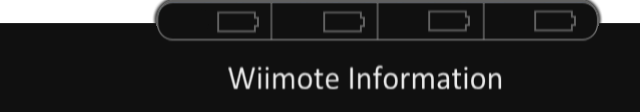
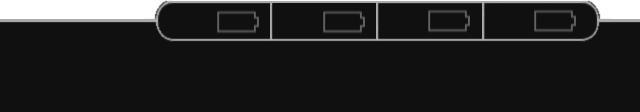
Localization: - Home Menu translated - new PNGs for Home Menu   ( dol is a bit smaller now )  ;) - Update turkish.lang by aHMET - Update german.lang

diff --git a/CoverFlow/source/homemenu.c b/CoverFlow/source/homemenu.c
@@ -86,7 +86,8 @@ void HomeMenu_Show()
 		moving_y = change_scale(i, 0, 26, 108, 0);
 		Do_Batteries(moving_y);
 		moving_y = change_scale(i, 0, 26, -38, 70);
-		CFreeTypeGX_DrawText(ttf24pt, 490, moving_y, TX.homeMenuTopB, (GXColor){0x00, 0x00, 0x00, 0xff}, FTGX_JUSTIFY_LEFT | FTGX_ALIGN_MIDDLE);
+		CFreeTypeGX_DrawText(ttf24pt, 470, moving_y, TX.homeMenuTopB, (GXColor){0x00, 0x00, 0x00, 0xff}, FTGX_JUSTIFY_LEFT | FTGX_ALIGN_MIDDLE);
+		CFreeTypeGX_DrawText(ttf24pt, 30, moving_y, TX.homeMenu, (GXColor){0xff, 0xff, 0xff, 0xff}, FTGX_JUSTIFY_LEFT | FTGX_ALIGN_MIDDLE);
 
 		WPAD_ScanPads();
 		PAD_ScanPads();
@@ -116,7 +117,8 @@ void HomeMenu_Show()
 		Button_Paint(&homeMenuTopButton);
 		Button_Paint(&homeMenuBottomButton);
 		// Draw the 'Cancel' text
-		CFreeTypeGX_DrawText(ttf24pt, 490, moving_y, TX.homeMenuTopB, (GXColor){0x00, 0x00, 0x00, 0xff}, FTGX_JUSTIFY_LEFT | FTGX_ALIGN_MIDDLE);
+		CFreeTypeGX_DrawText(ttf24pt, 470, moving_y, TX.homeMenuTopB, (GXColor){0x00, 0x00, 0x00, 0xff}, FTGX_JUSTIFY_LEFT | FTGX_ALIGN_MIDDLE);
+		CFreeTypeGX_DrawText(ttf24pt, 30, moving_y, TX.homeMenu, (GXColor){0xff, 0xff, 0xff, 0xff}, FTGX_JUSTIFY_LEFT | FTGX_ALIGN_MIDDLE);
 		Do_Batteries(0);
 
 		Button_HomeMenu_Paint(&wiiMenuButton);
@@ -181,7 +183,7 @@ void HomeMenu_Show()
 		Button_Paint(&homeMenuTopButton);
 		Button_Paint(&homeMenuBottomButton);
 		// Draw the 'Cancel' text
-		CFreeTypeGX_DrawText(ttf24pt, 490, moving_y, TX.homeMenuTopB, (GXColor){0x00, 0x00, 0x00, 0xff}, FTGX_JUSTIFY_LEFT | FTGX_ALIGN_MIDDLE);
+		CFreeTypeGX_DrawText(ttf24pt, 470, moving_y, TX.homeMenuTopB, (GXColor){0x00, 0x00, 0x00, 0xff}, FTGX_JUSTIFY_LEFT | FTGX_ALIGN_MIDDLE);
 		Do_Batteries(0);
 
 		Button_HomeMenu_Paint(&wiiMenuButton);
@@ -214,8 +216,15 @@ void HomeMenu_Show()
 			self.rumbleAmt = 4;
 		}
 
+		if(Button_Hover(&homeMenuTopButton, pointer.p_x, pointer.p_y))
+			CFreeTypeGX_DrawText(ttf24pt, 30, moving_y, TX.homeMenu, (GXColor){0x00, 0x00, 0x00, 0xff}, FTGX_JUSTIFY_LEFT | FTGX_ALIGN_MIDDLE);
+		else
+			CFreeTypeGX_DrawText(ttf24pt, 30, moving_y, TX.homeMenu, (GXColor){0xff, 0xff, 0xff, 0xff}, FTGX_JUSTIFY_LEFT | FTGX_ALIGN_MIDDLE);
+		
+
 		if(Button_Hover(&homeMenuBottomButton, pointer.p_x, pointer.p_y))
 		{
+			CFreeTypeGX_DrawText(ttf20pt, 375, 440 , TX.homeWiimote, (GXColor){0x00, 0x00, 0x00, 0xff}, FTGX_JUSTIFY_CENTER );
 			if(slide_wiimote > -20)
 			{
 				slide_wiimote--;
@@ -224,6 +233,7 @@ void HomeMenu_Show()
 		}
 		else
 		{
+			CFreeTypeGX_DrawText(ttf20pt, 375, 440 , TX.homeWiimote, (GXColor){0xff, 0xff, 0xff, 0xff}, FTGX_JUSTIFY_CENTER );
 			if(slide_wiimote < 0)
 			{
 				slide_wiimote++;
@@ -261,7 +271,8 @@ void HomeMenu_Show()
 		Button_Paint(&homeMenuBottomButton);
 
 		// Draw the 'Cancel' text
-		CFreeTypeGX_DrawText(ttf24pt, 490, moving_y, TX.homeMenuTopB, (GXColor){0x00, 0x00, 0x00, 0xff}, FTGX_JUSTIFY_LEFT | FTGX_ALIGN_MIDDLE);
+		CFreeTypeGX_DrawText(ttf24pt, 470, moving_y, TX.homeMenuTopB, (GXColor){0x00, 0x00, 0x00, 0xff}, FTGX_JUSTIFY_LEFT | FTGX_ALIGN_MIDDLE);
+		CFreeTypeGX_DrawText(ttf24pt, 30, moving_y, TX.homeMenu, (GXColor){0xff, 0xff, 0xff, 0xff}, FTGX_JUSTIFY_LEFT | FTGX_ALIGN_MIDDLE);
 		Do_Batteries(0);
 
 		Button_HomeMenu_Paint(&wiiMenuButton);
@@ -292,7 +303,8 @@ void HomeMenu_Show()
 		Button_Paint(&homeMenuBottomButton);
 		// Draw the 'Cancel' text
 		moving_y = change_scale(i, 0, 26, 70, -38);
-		CFreeTypeGX_DrawText(ttf24pt, 490, moving_y, TX.homeMenuTopB, (GXColor){0x00, 0x00, 0x00, 0xff}, FTGX_JUSTIFY_LEFT | FTGX_ALIGN_MIDDLE);
+		CFreeTypeGX_DrawText(ttf24pt, 470, moving_y, TX.homeMenuTopB, (GXColor){0x00, 0x00, 0x00, 0xff}, FTGX_JUSTIFY_LEFT | FTGX_ALIGN_MIDDLE);
+		CFreeTypeGX_DrawText(ttf24pt, 30, moving_y, TX.homeMenu, (GXColor){0xff, 0xff, 0xff, 0xff}, FTGX_JUSTIFY_LEFT | FTGX_ALIGN_MIDDLE);
 		moving_y = change_scale(i, 0, 26, 4, 112);
 		Do_Batteries(moving_y);
 
@@ -320,7 +332,8 @@ void HomeMenu_Destroy()
 		GRRLIB_DrawImg(homeMenuTopButton.x, homeMenuTopButton.y, homeMenuTopButton.texture, 0, 1, 1, 0xFFFFFF00|i);
 		GRRLIB_DrawImg(homeMenuBottomButton.x, homeMenuBottomButton.y, homeMenuBottomButton.texture, 0, 1, 1, 0xFFFFFF00|i);
 		// Draw the 'Cancel' text
-		CFreeTypeGX_DrawText(ttf24pt, 490, 70, TX.homeMenuTopB, (GXColor){0x00, 0x00, 0x00, 0xff}, FTGX_JUSTIFY_LEFT | FTGX_ALIGN_MIDDLE);
+		CFreeTypeGX_DrawText(ttf24pt, 470, 70, TX.homeMenuTopB, (GXColor){0x00, 0x00, 0x00, 0xff}, FTGX_JUSTIFY_LEFT | FTGX_ALIGN_MIDDLE);
+		CFreeTypeGX_DrawText(ttf24pt, 30, 70, TX.homeMenu, (GXColor){0xff, 0xff, 0xff, 0xff}, FTGX_JUSTIFY_LEFT | FTGX_ALIGN_MIDDLE);
 		GRRLIB_DrawImg(wiiMenuButton.x, wiiMenuButton.y, wiiMenuButton.texture, 0, 1, 1, 0xFFFFFF00|i);
 		CFreeTypeGX_DrawText(ttf24pt, (wiiMenuButton.x + (wiiMenuButton.texture.w / 2)), (wiiMenuButton.y + (wiiMenuButton.texture.h / 2)), wiiMenuButton.ttf_label, (GXColor){0x00, 0x00, 0x00, 0xff}, FTGX_JUSTIFY_CENTER | FTGX_ALIGN_MIDDLE);
 		GRRLIB_DrawImg(loaderButton.x, loaderButton.y, loaderButton.texture, 0, 1, 1, 0xFFFFFF00|i);
@@ -344,6 +357,10 @@ void Do_Batteries(int y_modifier)
 	u8 ret;
 	u8 level;
 	char tUnit[4];
+	
+	
+	CFreeTypeGX_DrawText(ttf20pt, 375, (440 + y_modifier), TX.homeWiimote, (GXColor){0xff, 0xff, 0xff, 0xff}, FTGX_JUSTIFY_CENTER );
+
 	
 	for(x = 0; x <= 3; x++)
 	{

diff --git a/CoverFlow/source/localization.c b/CoverFlow/source/localization.c
@@ -241,6 +241,8 @@ void languageDefault()
  	snprintf(TX.initSys, sizeof(TX.initSys), "Init Sys...");
 	snprintf(TX.initUSBFS, sizeof(TX.initUSBFS), "Initializing USBFS...");
 	snprintf(TX.initDisc, sizeof(TX.initDisc), "Initializing Disc...");
+	snprintf(TX.homeMenu, sizeof(TX.homeMenu), "HOME Menu");
+	snprintf(TX.homeWiimote, sizeof(TX.homeWiimote), "Wiimote Information");
 							
 // Buttons	
 
@@ -946,7 +948,14 @@ void languageSet(char *name, char *val)
 		strcopy(TX.initDisc, val, sizeof(TX.initDisc));
 		return;
 	}	
-
+	if (strcmp(name, "homeMenu") == 0) {
+		strcopy(TX.homeMenu, val, sizeof(TX.homeMenu));
+		return;
+	}	
+	if (strcmp(name, "homeWiimote") == 0) {
+		strcopy(TX.homeWiimote, val, sizeof(TX.homeWiimote));
+		return;
+	}	
 	
 //////////////// Buttons //////////////
 

diff --git a/CoverFlow/include/localization.h b/CoverFlow/include/localization.h
@@ -200,9 +200,8 @@ struct LANGUAGE
 	char initSys[40];				//161
 	char initUSBFS[40];				//162
 	char initDisc[40];				//163
-	
-	
-	
+	char homeMenu[20];				//164
+	char homeWiimote[30];			//165
 	
 // Buttons	
 	char addB[15];					//B01
